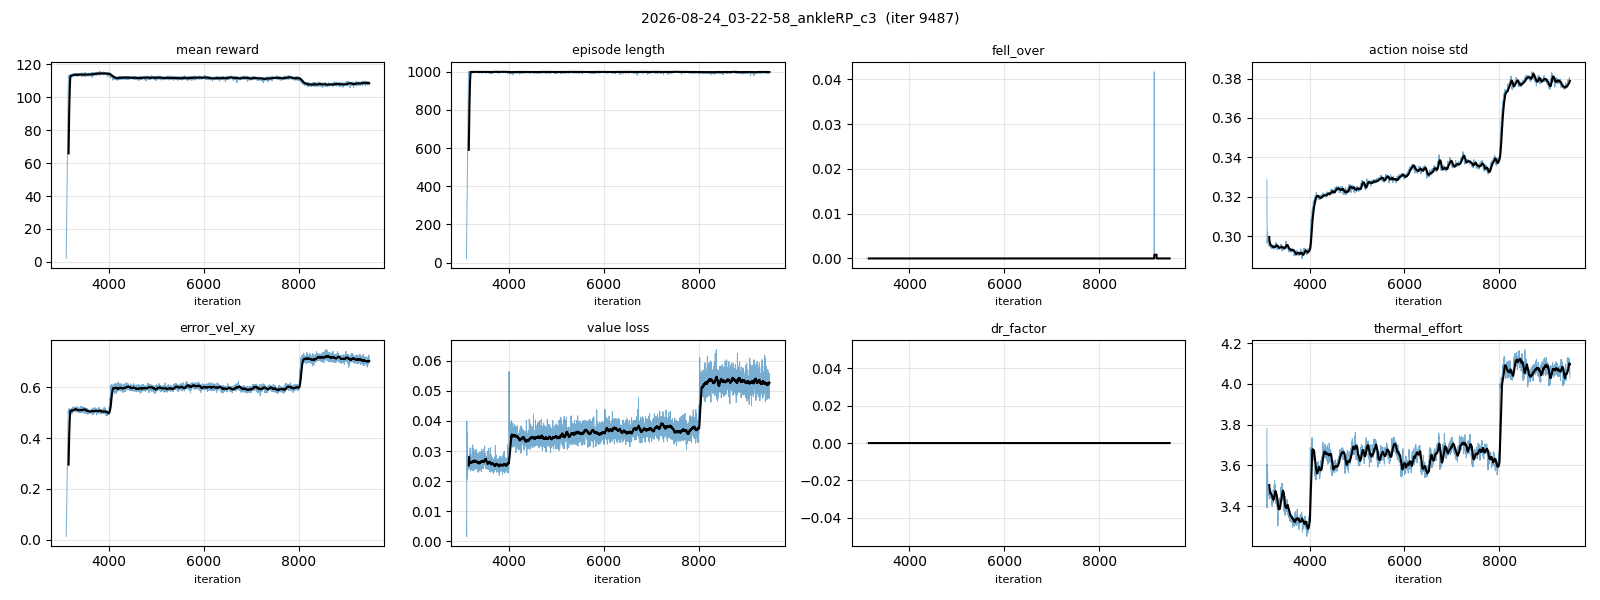
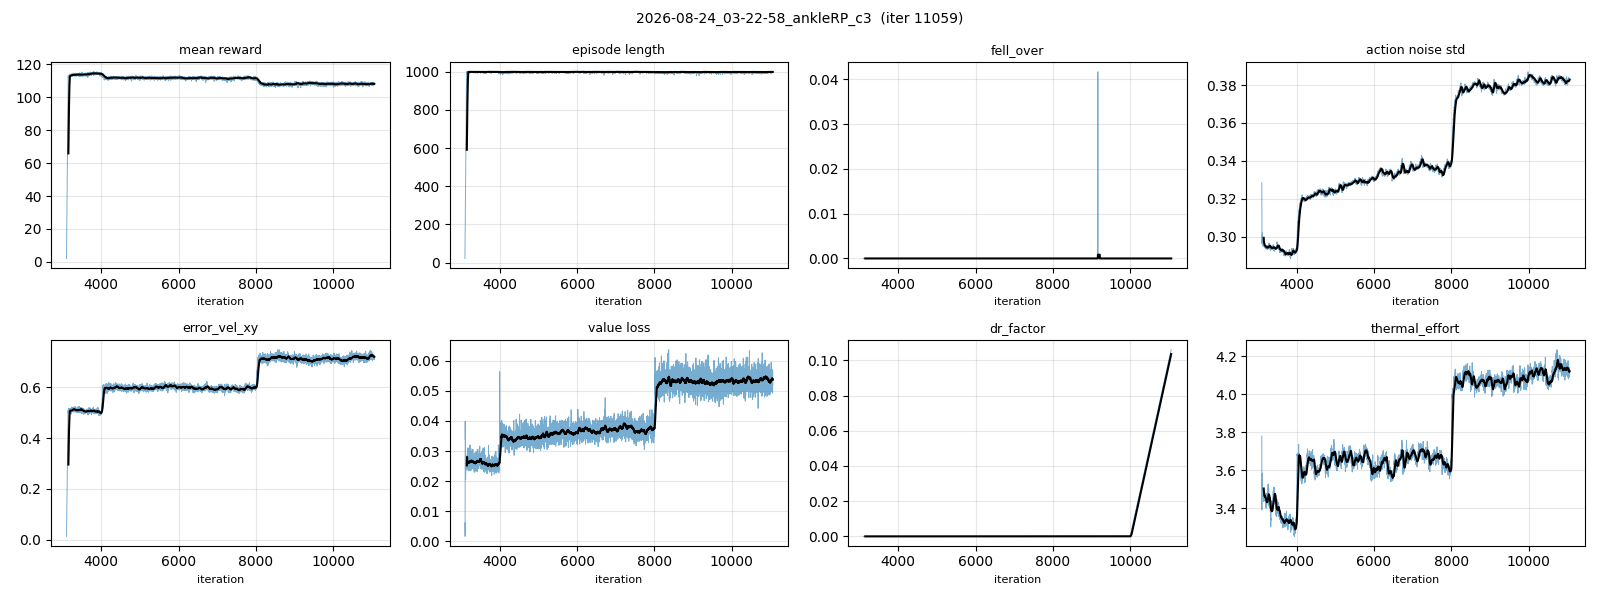
registry/canvas: c3 at 11k with DR ramp, err_vel artifact finding linked

diff --git a/docs/66_experiment_registry.md b/docs/66_experiment_registry.md
@@ -114,7 +114,7 @@
 |---|---|---|---|
 | ~~ankleAB_c1 / ankleRP_c1~~ (`20-45-09/27`, ✗ iter 172 중단) | 팔이 영점(매달림)으로 weld → hip_roll 링크와 14 mm 관통 | — | ✗ 상체 팔 15° 외전 고정 후 c2로 재시작 |
 | (config-test) ankleAB_softtest / softtest2 [[2026-08-24_ankleAB_softtest]] [[2026-08-24_ankleAB_softtest2]] (02:00 / 02:43, c2r 3100+800 iter, 1024 env) | soft-landing 항 형태: 선형 w −2 vs 제곱 w −1 | 접지속도 1.24 → **2.42**(선형, 해킹) / **0.98**(제곱) m/s; 피크 1.50 → 1.66 / 1.31 BW | 선형 기각·제곱 채택 → c3 |
-| **ankleAB_c3 / ankleRP_c3** "flat-2.5max gen21-bundle+**soft-landing** curriculum-dr+push ankle-AB / -RP (2026-08-24)" (`03-22-35` / `03-22-58`, 🔄학습중 9.5k/32k, ETA 08-25 18:40) [[2026-08-24_ankleAB_c3]] [[2026-08-24_ankleRP_c3]] | c2 + `PYG_SOFT_LANDING` (foot_impact_velocity Σrelu(−v_z)²·[h<0.10∧공중] w −1, contact_force_cap 420/560 N) — 두 arm 동일, 3100까지 이력 동일 | 시험(AB 3100+800, 1024env): 접지속도 1.24→0.98 m/s, GRF 피크 1.50→1.31 BW, 추종 유지, 스윙높이 0.116→0.080 m(감시) | 🔄 4k(vx1.2): AB 0.90 m/s·1.00 BW / RP 1.14·1.22 · 8k(vx1.6): **RP가 더 부드러움** 0.85·1.03 vs AB 0.93·1.23, 접지 p90 1.96 꼬리, ⚠AB 정지 제자리걸음(발움직임 0.115 m/s·duty 0.87→12k 재확인). 스윙 0.112/0.082 m > 역치 → w −1 유지. 1:1 영상·그림 [[93_ankle_ab_rp_comparison_plan]] §5c. 선형형은 해킹(2.42 m/s)으로 기각 — [[95_soft_landing_prescription]] |
+| **ankleAB_c3 / ankleRP_c3** "flat-2.5max gen21-bundle+**soft-landing** curriculum-dr+push ankle-AB / -RP (2026-08-24)" (`03-22-35` / `03-22-58`, 🔄학습중 11k/32k, DR 램프 시작, ETA 08-25 18:40) [[2026-08-24_ankleAB_c3]] [[2026-08-24_ankleRP_c3]] | c2 + `PYG_SOFT_LANDING` (foot_impact_velocity Σrelu(−v_z)²·[h<0.10∧공중] w −1, contact_force_cap 420/560 N) — 두 arm 동일, 3100까지 이력 동일 | 시험(AB 3100+800, 1024env): 접지속도 1.24→0.98 m/s, GRF 피크 1.50→1.31 BW, 추종 유지, 스윙높이 0.116→0.080 m(감시) | 🔄 4k(vx1.2): AB 0.90 m/s·1.00 BW / RP 1.14·1.22 · 8k(vx1.6): **RP가 더 부드러움** 0.85·1.03 vs AB 0.93·1.23, 접지 p90 1.96 꼬리, ⚠AB 정지 제자리걸음(발움직임 0.115 m/s·duty 0.87→12k 재확인). 스윙 0.112/0.082 m > 역치 → w −1 유지. 1:1 영상·그림 [[93_ankle_ab_rp_comparison_plan]] §5c. ★err_vel 0.69는 지표 아티팩트(=평균 0.276×2.5, [[96_tracking_error_bottleneck]]) — 정상상태 AB 0.17/RP 0.24, RP ankle_pitch T-N 82%. 선형형은 해킹(2.42 m/s)으로 기각 — [[95_soft_landing_prescription]] |
 | **ankleAB_c2 → c2r** "flat-2.5max gen21-bundle curriculum-dr+push ankle-AB-loop (2026-08-23)" (`21-02-10` → OOM iter1252 → `23-17-35_ankleAB_c2r` resume model_1200, ⏸ iter 4400에서 중단 → c3로 계승) [[2026-08-23_ankleAB_c2]] | vs gen21_bent_p2: 프린트 질량·실측 모터(RS04 J .0163/b .0095/tc .269, RS03 .0153/.0223/.285)·T-N 곡선·**폐루프 발목(크랭크 RS03 ×2, Kp 22.3/Kd 1.41/60 N·m)**·단일 런 커리큘럼(DR 10k→20k, vx 단계 2.5@16k)·16384 env·상체 weld+팔 15° 외전 고정·hip_yaw ±45° | iter 610: reward 109·fell 0; iter 1200 분석(93 §5b): 보행 발목 17° 사용·토크 12.8 N·m·GRFc 1.39 BW, **정지 잔떨림+0.4 Hz 스웨이**; 최신 스냅샷 iter 2659(08-24 01:22): reward 114.1(50avg 114.4)·fell 0.000·err_vel_xy 0.509·thermal 4.02 | 🔄 CONTINUE (4k 게이트서 정지 떨림 재확인) |
 | (분석) 폐루프 구속 강성 solimp 전례·변인통제 [[94_loop_constraint_stiffness]] (2026-08-24) | 같은 AB 정책, 구속만 0.9→0.9999 5단계 | 튐 |Δτ| p99: 기본 18.0 / 0.99–0.9999 11–12 N·m, 폐루프 오차 8.4→0.08 mm | 0.999 유지; 학습 A/B(0.95/0.99·solref 5 ms, BRUCE 데드밴드)는 본런 후 |
 | **ankleRP_c2** "flat-2.5max gen21-bundle curriculum-dr+push ankle-RP-serial (2026-08-23)" (`2026-08-23_21-02-18`, ⏸ iter 3400에서 중단 → c3로 계승) [[2026-08-23_ankleRP_c2]] | ankleAB_c2와 **단일변인 = 발목 기구**: 직렬 pitch/roll(Kp 28.5/Kd 1.81) + 루프 자코비안 크랭크공간 클램프(±60, T-N) + 반영 관성/마찰. env.yaml diff = 발목 항목만(launch 직후 확인) | iter 610: reward 113·fell 0; iter 1200 분석: 발목 10° 사용·**bang-bang 목표(−40↔+35°) PD 포화 토크 스파이크**·GRFc 1.51 BW; 최신 스냅샷 iter 3433(08-24 02:22): reward 113.5(50avg 113.8)·fell 0.000·err_vel_xy 0.509·thermal 3.56 | 🔄 CONTINUE |

diff --git a/docs/experiments/2026-08-24_ankleAB_c3.md b/docs/experiments/2026-08-24_ankleAB_c3.md
@@ -29,3 +29,7 @@
 | 08-24 11:17 | 8792 | 109.4 (50avg 108.9) | 1000 | 0.373 | 0.0525 | 4.08 | -0.0056 / 3.8e-04 | 0.000 / 0.083 | 0.691 / 0.536 | 0.00 / 1.6 | 4.73 | vx1.6 적응 중(8.6k): reward 111.6→108.5·err_vel 0.70(명령대역 확대분), fell 0, DR 아직 0(10k부터) → CONTINUE. AB/RP 1:1 비교영상 제작(docs/video/abrp_sidebyside_g8000.mp4, abrp_shadow_g8000.mp4) |
 | 08-24 11:28 | 8920 | 109.5 (50avg 108.9) | 1000 | 0.376 | 0.0533 | 4.14 | -0.0059 / 5.8e-04 | 0.000 / 0.083 | 0.715 / 0.539 | 0.00 / 1.6 | 4.81 | (자동 스냅샷, 판정은 게이트 리뷰에서) |
 | 08-24 12:16 | 9494 | 109.1 (50avg 109.0) | 1000 | 0.378 | 0.0479 | 4.26 | -0.0052 / 5.8e-04 | 0.000 / 0.042 | 0.693 / 0.538 | 0.00 / 1.6 | 4.76 | 9.5k(vx1.6 유지, DR 램프 직전): reward 109.1·err_vel 0.70·fell 0·low_base 0.08, impact_vel 0.151 유지 → CONTINUE. ETA 08-25 18:40 |
+| 08-24 12:28 | 9633 | 109.4 (50avg 109.1) | 1000 | 0.376 | 0.0488 | 4.19 | -0.0049 / 5.8e-04 | 0.000 / 0.083 | 0.686 / 0.535 | 0.00 / 1.6 | 4.77 | (자동 스냅샷, 판정은 게이트 리뷰에서) |
+| 08-24 13:28 | 10341 | 109.4 (50avg 109.1) | 1000 | 0.376 | 0.0519 | 4.20 | -0.0053 / 5.8e-04 | 0.000 / 0.000 | 0.698 / 0.535 | 0.03 / 1.6 | 4.70 | (자동 스냅샷, 판정은 게이트 리뷰에서) |
+| 08-24 14:28 | 11055 | 109.0 (50avg 108.7) | 1000 | 0.378 | 0.05 | 4.23 | -0.0059 / 5.8e-04 | 0.000 / 0.000 | 0.669 / 0.538 | 0.11 / 1.6 | 4.74 | (자동 스냅샷, 판정은 게이트 리뷰에서) |
+| 08-24 14:29 | 11066 | 109.2 (50avg 108.8) | 1000 | 0.378 | 0.0491 | 4.23 | -0.0050 / 5.8e-04 | 0.000 / 0.083 | 0.695 / 0.536 | 0.11 / 1.6 | 4.71 | 11k(DR 램프 진입 구간): fell 0 유지. err_vel 0.69 분해 완료 — 정상상태 0.172·전환과도 0.41·탐색노이즈 +0.12로 분해되며 T-N 포화 0%(docs/96) → 지표는 정상, CONTINUE |

diff --git a/docs/experiments/2026-08-24_ankleRP_c3.md b/docs/experiments/2026-08-24_ankleRP_c3.md
@@ -29,3 +29,7 @@
 | 08-24 11:17 | 8785 | 107.3 (50avg 108.0) | 994 | 0.378 | 0.0568 | 4.35 | -0.0054 / 3.8e-04 | 0.000 / 0.042 | 0.719 / 0.539 | 0.00 / 1.6 | 4.09 | vx1.6 적응 중(8.6k): reward 108.0·err_vel 0.72, fell 0 → CONTINUE. AB와 동일 추세(격차 <1%) |
 | 08-24 11:28 | 8913 | 108.1 (50avg 107.9) | 1000 | 0.379 | 0.0528 | 4.40 | -0.0052 / 3.8e-04 | 0.000 / 0.042 | 0.711 / 0.540 | 0.00 / 1.6 | 4.06 | (자동 스냅샷, 판정은 게이트 리뷰에서) |
 | 08-24 12:16 | 9487 | 108.8 (50avg 108.5) | 1000 | 0.378 | 0.0537 | 4.35 | -0.0064 / 5.8e-04 | 0.000 / 0.042 | 0.697 / 0.539 | 0.00 / 1.6 | 4.03 | 9.4k: reward 107.8·err_vel 0.68·fell 0·low_base 0.08, impact_vel 0.167 → CONTINUE. AB와 동률(±1%) |
+| 08-24 12:28 | 9625 | 109.0 (50avg 108.2) | 1000 | 0.380 | 0.0466 | 4.42 | -0.0048 / 5.8e-04 | 0.000 / 0.000 | 0.710 / 0.540 | 0.00 / 1.6 | 4.03 | (자동 스냅샷, 판정은 게이트 리뷰에서) |
+| 08-24 13:28 | 10333 | 107.5 (50avg 108.0) | 1000 | 0.381 | 0.0561 | 4.49 | -0.0052 / 5.8e-04 | 0.000 / 0.000 | 0.713 / 0.544 | 0.03 / 1.6 | 4.15 | (자동 스냅샷, 판정은 게이트 리뷰에서) |
+| 08-24 14:28 | 11048 | 107.9 (50avg 108.2) | 1000 | 0.383 | 0.0495 | 4.54 | -0.0048 / 3.8e-04 | 0.000 / 0.042 | 0.716 / 0.542 | 0.10 / 1.6 | 4.12 | (자동 스냅샷, 판정은 게이트 리뷰에서) |
+| 08-24 14:29 | 11059 | 108.0 (50avg 108.2) | 998 | 0.383 | 0.0524 | 4.54 | -0.0057 / 5.8e-04 | 0.000 / 0.208 | 0.723 / 0.543 | 0.11 / 1.6 | 4.13 | 11k: fell 0. err_vel 분해 정상상태 0.241(AB 0.172), ★ankle_pitch T-N 사용률 0.82·한계도달 3.7%(AB 크랭크 0.35-0.38) → 16k 게이트 감시항목 추가(docs/96), CONTINUE |
